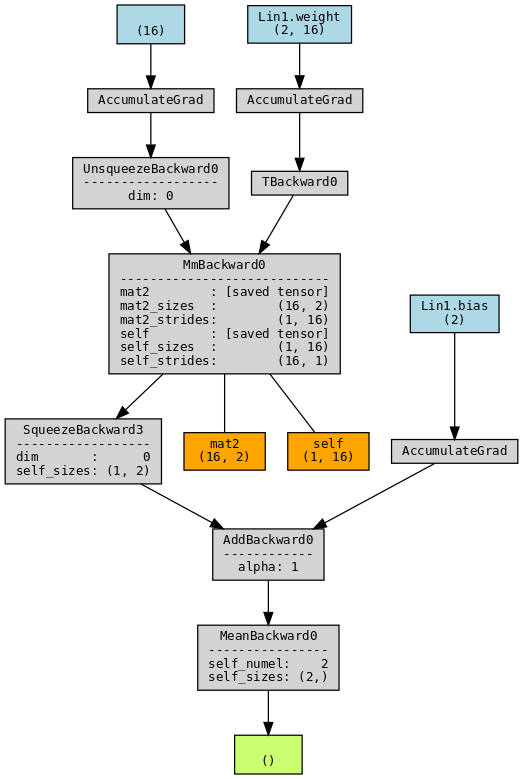
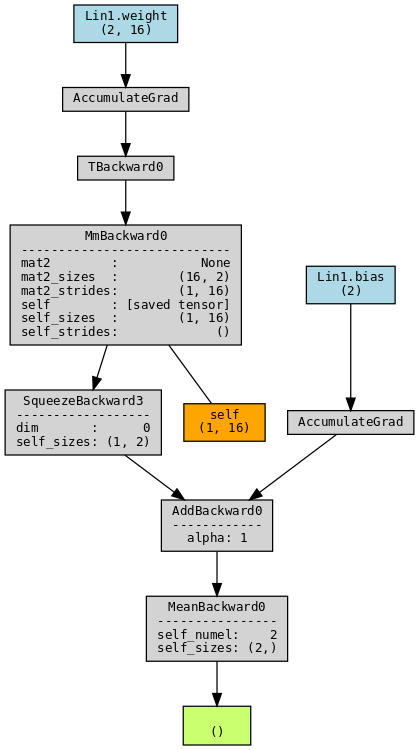
torch autograd

Changed region(s): [[0.0, 0.0, 0.9928, 1.0]]

diff --git a/_posts/2022-10-24-Torch-autograd.md b/_posts/2022-10-24-Torch-autograd.md
@@ -54,6 +54,7 @@ $$
 
 And the chain rule can be re-written, for any $$f: \mathbb{R}^{n_1} \rightarrow \mathbb{R}^{n_2}$$ and 
 $$g: \mathbb{R}^{n_0} \rightarrow \mathbb{R}^{n_1}$$ two real functions, as: 
+
 $$J_{f\circ g} = \underset{n_2 \times n_1}{J_{f}(g)}.\underset{n_1 \times n_0}{J_g}$$
 
 This implies we can rewrite the Jacobian matrix of a composition as a product of 
@@ -106,7 +107,7 @@ the Tensors we want the gradients for.
 
 ### Theory 
 
-To perform reverse AD, PyTorch records a computation graph containing all of the 
+To perform reverse AD, PyTorch records a computation graph containing all the 
 operations to go from inputs to outputs. It gives us a directed acyclic graph 
 whose leaves are the input tensors and roots are the output tensors. The graph is 
 created in forward pass, while gradients are calculated in backward pass using
@@ -120,7 +121,7 @@ Let us see an example with a
 simple linear layer. We use torchviz to visualize execution graphs and traces.
 This code must be launched in a notebook after having installed graphviz and torchviz.
 
-```
+```bash
 sudo apt-get install graphviz   
 pip install torchviz
 ```
@@ -136,23 +137,69 @@ from collections import OrderedDict
 in_f, out_f=16,2
 
 # Setup
-x=torch.arange(in_f, dtype=torch.float32, requires_grad=True)
+x=torch.arange(in_f, dtype=torch.float32)
 model=nn.Sequential(OrderedDict([ ('Lin1',nn.Linear(in_f,out_f)) ]) )
 
 y=model(x)
 make_dot(y.mean(), params=dict(model.named_parameters()), show_attrs=True, show_saved=True)
 ```
 
-<figure>
-  <div class="row">
-    <div class="col">
-      <img src="{{ '/assets/img/notes/lecture-28/interoperability.png' | relative_url }}" />
+<div class="row justify-content-md-center">
+    <div class="col-sm-4">
+        {% include figure.html path="assets/img/Blog/2022-10-24/output.png" class="img-fluid rounded z-depth-1"%}
     </div>
-  </div>
-  <figcaption>
-    Inter-operability between diverse systems
-  </figcaption>
-</figure>
+    <div class="col-sm">
+    <font color="blue"> Blue boxes:</font>
+    represent tensors requiring a gradient computation. We can see the linear weight matrix of shape 
+    (2,16) and the linear bias matrix of shape (2). <br> <br>
+    <font color="orange"> Orange boxes:</font>
+    represent intermediary tensors. Those are tensors saved during
+    the forward pass that enables to calculate gradients during the backward. <br> <br>
+    <font color="grey"> Grey boxes:</font>
+    minimal transformations and traces. Let us explain some boxes:
+    <ul>
+    <li><i> AccumulateGrad </i>: indicates that gradients need to be calculated. 
+    Since weight and bias matrices are encoded as nn.Parameter, they have requires_grad set to True
+    and appear in blue while the input has requires_grad set to False and does not appear;</li>
+    <li><i> TBackward0 </i>: refers to the transposed operation (W<sup>T</sup>);</li>
+    <li><i>MmBackward0</i>: refers to the matrix multiplication (x.W<sup>T</sup>);</li>
+    <li><i>AddBackward0</i>: refers to the addition (x.W<sup>T</sup> + b);</li>
+    </ul>
+    </div>
+</div>
+
+Intermediary tensors imply additional memory cost during training. It is one possible
+reason explaining why a model fit in memory during evaluation and not during training. 
+These intermediary results are packed during the forward pass (saved) and unpack 
+during the backward pass (when access to the tensor is required). 
+If we want to control the packing/ unpacking behaviour, we can use the 
+*torch.autograd.graph.saved_tensors_hooks()* context manager.
+
+```python
+# Call every time a tensor is saved: forward pass
+def pack_hook(x):
+    print(x)
+    print("Packing", x.shape)
+    return x
+
+# Call every time a tensor is accessed: backward pass
+def unpack_hook(x):
+    print("Unpacking", x.shape)
+    return x
+
+with torch.autograd.graph.saved_tensors_hooks(pack_hook, unpack_hook):
+    y=model(x) # Call pack_hook and defined unpack_hook
+y.mean().backward() # Call unpack_hook
+```
+
+If this feature is useful for debugging and adds modularity but what is more 
+interesting is to control wether the intermediary tensors are saved on the cpu or 
+on the GPU because very often, the tensors involved in the computation graph live 
+on GPU. Keeping a reference to those tensors in the graph is what causes most models 
+to run out of GPU memory during training while they would have done fine during evaluation. 
+If it is possible to do it using *pack_hook*, *unpack_hook*, PyTorch provides another
+context manager *torch.autograd.graph.save_on_cpu()*. During the forward pass, tensors
+will be stored on CPU, while during backward pass, they will be put to the GPU.
 
 ### Example:
 We continue the theorical example of the composition of three nested linear layers
@@ -477,9 +524,10 @@ intersting tools is to save a trace of the profiling and to load it later in: *c
 </div>
 
 ---------------------------------
-Ressources:
+# Ressources
 
 **Concepts:**
+- [AD](https://pytorch.org/docs/stable/autograd.html#)
 - [Understand AD](https://towardsdatascience.com/forward-mode-automatic-differentiation-dual-numbers-8f47351064bf)
 - [Understand AD (2)](https://math.stackexchange.com/questions/2195377/reverse-mode-differentiation-vs-forward-mode-differentiation-where-are-the-be)
 - [Mathematical aspects of AD](https://jingnanshi.com/blog/autodiff.html)
@@ -489,5 +537,6 @@ Ressources:
 - [AD mode time comparison](https://leimao.github.io/blog/PyTorch-Automatic-Differentiation/)
 
 **Notebooks:**
-- [AD Notebook](https://pytorch.org/tutorials/intermediate/forward_ad_usage.html)
-- [Autograd notebook](https://pytorch.org/docs/stable/notes/autograd.html#)
+- [AD](https://pytorch.org/tutorials/intermediate/forward_ad_usage.html)
+- [Autograd](https://pytorch.org/docs/stable/notes/autograd.html#)
+- [Autograd Hooks](https://pytorch.org/tutorials/intermediate/autograd_saved_tensors_hooks_tutorial.html)
